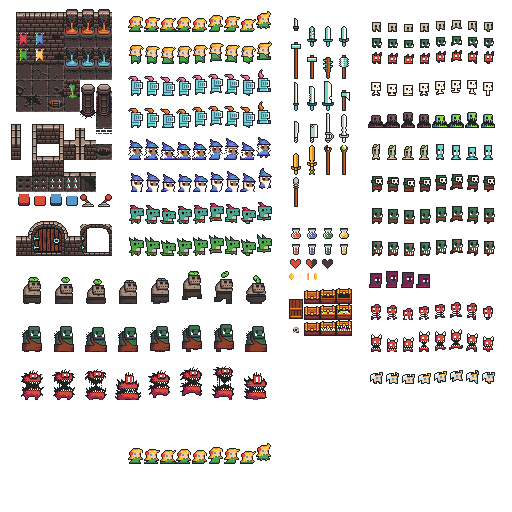
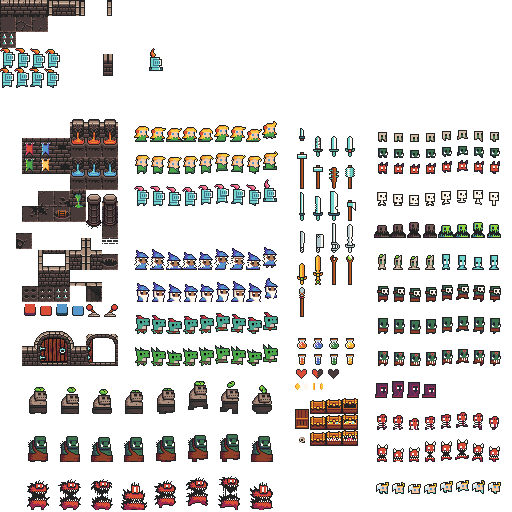
tile change, sprite change (bug?? white outline)

diff --git a/GAME3001_A3_Daekoen_Lee_Michale_Shular/GAME1017_Template_W01/States.cpp b/GAME3001_A3_Daekoen_Lee_Michale_Shular/GAME1017_Template_W01/States.cpp
@@ -28,7 +28,7 @@ void PlayState::Enter()
 		while (!inFile.eof())
 		{
 			inFile >> key >> x >> y >> o >> h;
-			m_tiles.emplace(key, new Tile({ x * 32, y * 32, 32, 32 }, { 0,0,32,32 }, 
+			m_tiles.emplace(key, new Tile({ x * 16, y * 16, 16, 16 }, { 0,0,32,32 }, 
 				Engine::Instance().GetRenderer(), TEMA::GetTexture("Tile"), o, h));
 		}
 	}
@@ -50,8 +50,8 @@ void PlayState::Enter()
 	}
 	inFile.close();
 	// Final engine initialization calls.
-	m_pPlayer = new Player({ 0,0,19,26 }, { 60.0f,200.0f,46.0f,64.0f },
-		Engine::Instance().GetRenderer(), TEMA::GetTexture("Player"), 0, 0, 4, 4);
+	m_pPlayer = new Player({ 0,47,15,20 }, { 60.0f,200.0f,30.0f,40.0f },
+		Engine::Instance().GetRenderer(), TEMA::GetTexture("Tile"), 0, 0, 3, 4);
 
 }
 void PlayState::Update()

diff --git a/GAME3001_A3_Daekoen_Lee_Michale_Shular/GAME1017_Template_W01/Engine.cpp b/GAME3001_A3_Daekoen_Lee_Michale_Shular/GAME1017_Template_W01/Engine.cpp
@@ -40,8 +40,7 @@ bool Engine::Init(const char* title, int xpos, int ypos, int width, int height, 
 	// Example specific initialization.
 	SDL_SetHint(SDL_HINT_RENDER_SCALE_QUALITY, "2"); // Call this before any textures are created.
 
-	TextureManager::RegisterTexture("img/Tiles.png", "Tile");
-	TextureManager::RegisterTexture("img/Maga.png", "Player");
+	TextureManager::RegisterTexture("img/0x72.png", "Tile");
 	TEMA::RegisterTexture("Img/Kit.png", "Button");
 	// Final engine initialization calls.
 	m_fps = (Uint32)round((1 / (double)FPS) * 1000); // Sets FPS in milliseconds and rounds.
